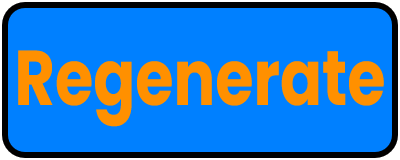
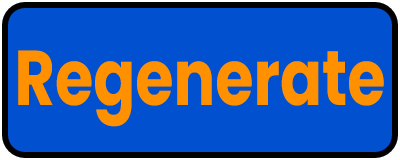
Improve contrast more

diff --git a/games/maze/maze.css b/games/maze/maze.css
@@ -43,7 +43,7 @@
     bottom: 220px;
     left: 30px;
     background-color: #ff9000;
-    color: #0080FF;
+    color: #0050D0;
     font-size: 20px;
     font-weight: bold; /* Todo: Figure out why DSi is ignoring this */
     padding-left: 10px;
